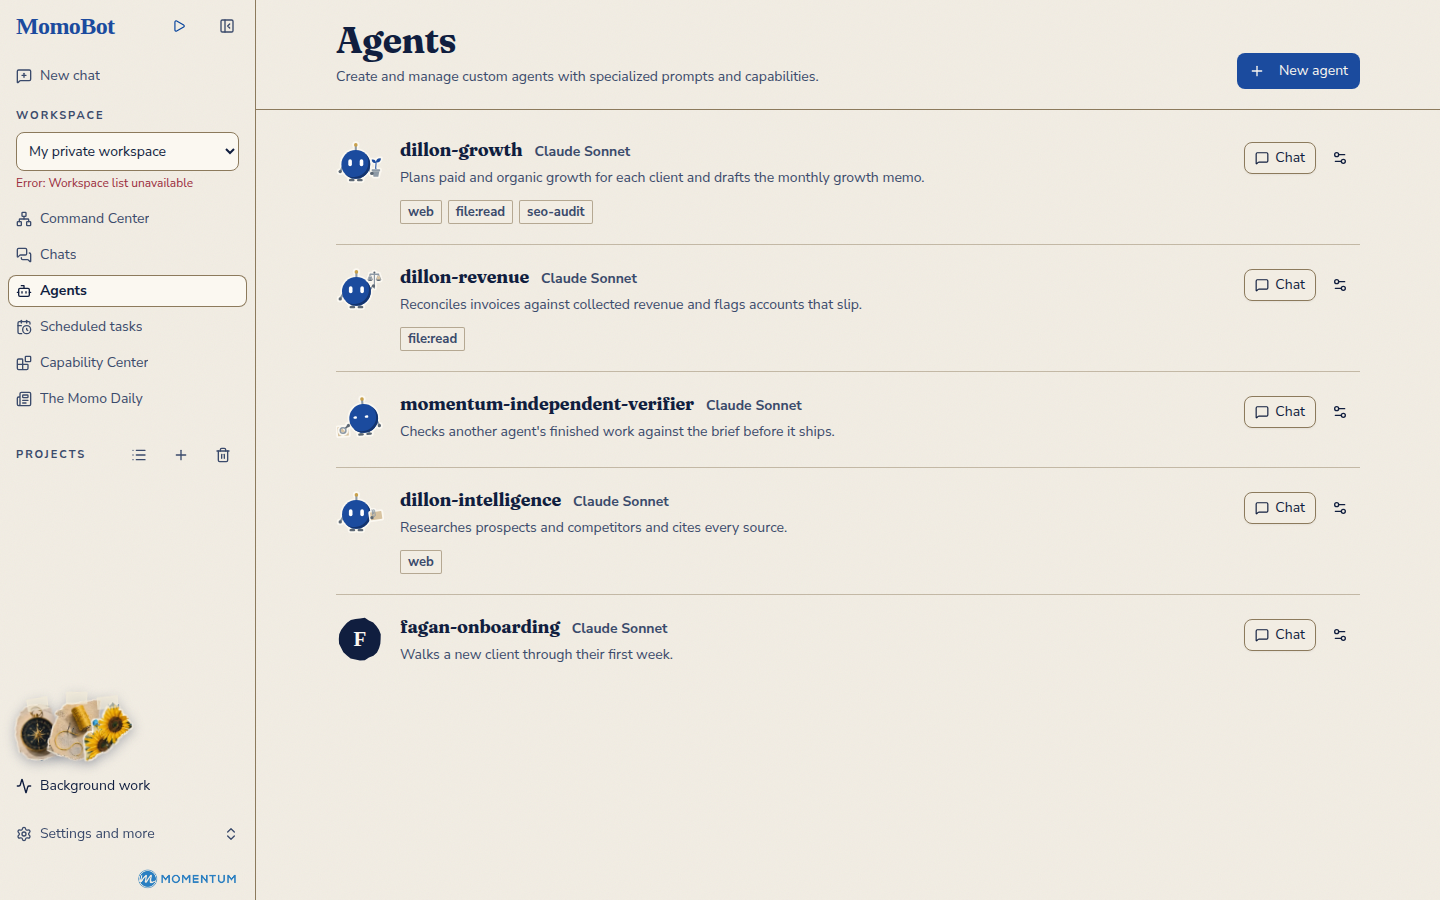
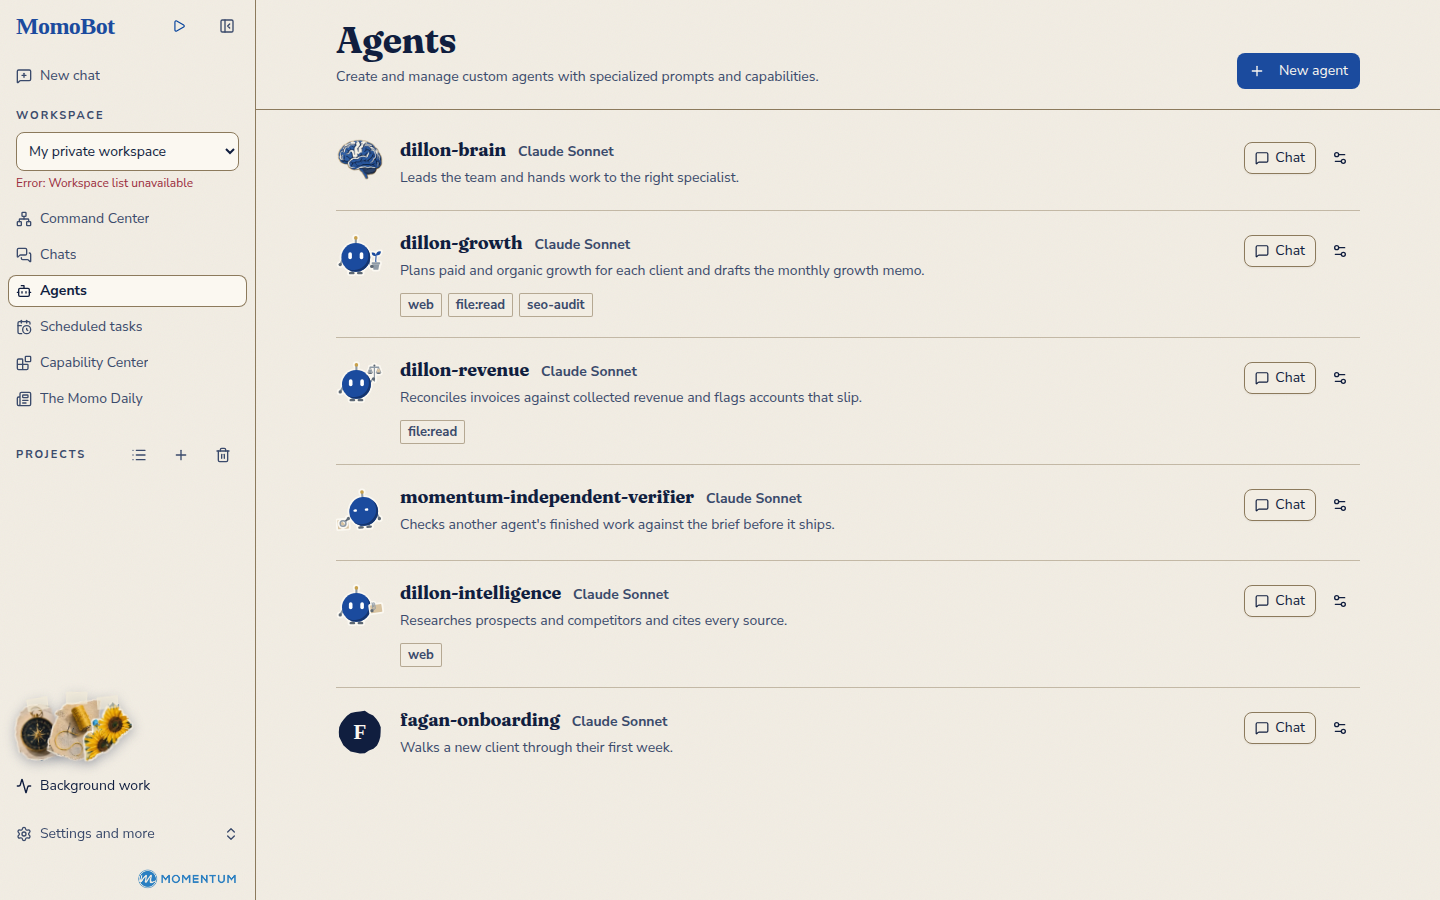
momo-week d11 slice 5: size the phone Momo in React, not CSS
The CSS override forced every img/svg in the avatar to 64x64, which
spilled Dillon Brain's layered art out of its 48x42 PaperLayers box
(motion on) and stretched its flat image square (reduced motion).
AgentCard now passes size 64 on phones via useIsMobile, so the box
grows with the art. shots.spec.ts adds dillon-brain and asserts a
64x56 box with no layer outside it, motion on and reduced.

Claude-Session: https://claude.ai/code/session_01E59Xa1Jk6hUQwFPSi9VpxZ

diff --git a/docs/pr-evidence/momo-week/d11-mobile-pop/slice5/shots.spec.ts b/docs/pr-evidence/momo-week/d11-mobile-pop/slice5/shots.spec.ts
@@ -1,4 +1,4 @@
-import { test } from "@playwright/test";
+import { expect, test } from "@playwright/test";
 
 import { mockLangGraphAPI } from "./utils/mock-api";
 
@@ -11,6 +11,7 @@ const IPHONE =
 // A realistic roster: canon specialists with Momo art, plus one custom
 // agent that has none (it keeps the ink monogram).
 const AGENTS = [
+  { name: "dillon-brain", description: "Leads the team and hands work to the right specialist.", model: "claude-sonnet", tool_groups: [], skills: [] },
   { name: "dillon-growth", description: "Plans paid and organic growth for each client and drafts the monthly growth memo.", model: "claude-sonnet", tool_groups: ["web", "file:read"], skills: ["seo-audit"] },
   { name: "dillon-revenue", description: "Reconciles invoices against collected revenue and flags accounts that slip.", model: "claude-sonnet", tool_groups: ["file:read"], skills: [] },
   { name: "momentum-independent-verifier", description: "Checks another agent's finished work against the brief before it ships.", model: "claude-sonnet", tool_groups: [], skills: [] },
@@ -46,3 +47,46 @@ for (const [w, h, mobile] of [
     });
   });
 }
+
+// Dillon Brain is a layered PaperLayers box, not a square svg: at phone size
+// the box itself is 64 by round(64 * 422/480) and no layer spills out of it.
+test.describe("brain 390", () => {
+  test.use({ viewport: { width: 390, height: 844 }, userAgent: IPHONE, isMobile: true, hasTouch: true });
+  for (const motion of ["on", "reduced"] as const) {
+    test(`brain avatar ${motion}`, async ({ page }) => {
+      if (motion === "on") {
+        // The workspace motion switch is off by default; turn it on.
+        await page.addInitScript(() => {
+          const get = Storage.prototype.getItem;
+          Storage.prototype.getItem = function (key: string) {
+            return key.startsWith("momentum:appearance:v1:") ? JSON.stringify({ treatment: "paper", motion: true }) : get.call(this, key);
+          };
+        });
+      } else {
+        await page.emulateMedia({ reducedMotion: "reduce" });
+      }
+      mockLangGraphAPI(page, { agents: AGENTS });
+      await page.goto("/workspace/agents");
+      const root = page.locator('li:has(h2:text-is("dillon-brain")) [data-paper-layers="root"]');
+      await root.waitFor();
+      await page.waitForTimeout(800);
+      const box = (await root.boundingBox())!;
+      expect(Math.round(box.width)).toBe(64);
+      expect(Math.round(box.height)).toBe(Math.round((64 * 422) / 480));
+      const imgs = page.locator('li:has(h2:text-is("dillon-brain")) [data-paper-layers="root"], li:has(h2:text-is("dillon-brain")) [data-paper-layers="root"] img');
+      const kind = await root.evaluate((el) => (el.tagName === "IMG" ? "flat" : "layers"));
+      console.log(`brain ${motion}: ${kind} ${Math.round(box.width)}x${Math.round(box.height)}`);
+      expect(kind).toBe(motion === "on" ? "layers" : "flat");
+      // 1px: the top layers' own translateZ depth scales them a hair past the
+      // box under perspective (0.3px at 64). The reported spill was 16x22px.
+      const T = 1;
+      for (const b of await imgs.evaluateAll((els) => els.map((e) => e.getBoundingClientRect().toJSON()))) {
+        expect(b.left).toBeGreaterThanOrEqual(box.x - T);
+        expect(b.top).toBeGreaterThanOrEqual(box.y - T);
+        expect(b.right).toBeLessThanOrEqual(box.x + box.width + T);
+        expect(b.bottom).toBeLessThanOrEqual(box.y + box.height + T);
+      }
+      await root.locator("xpath=ancestor::li").screenshot({ path: `${OUT}/brain-390-${motion}.png` });
+    });
+  }
+});

diff --git a/frontend/src/components/workspace/agents/agent-card.tsx b/frontend/src/components/workspace/agents/agent-card.tsx
@@ -20,6 +20,7 @@ import { pageStyles } from "@/components/workspace/page-body";
 import { useDeleteAgent } from "@/core/agents";
 import type { Agent } from "@/core/agents";
 import { useI18n } from "@/core/i18n/hooks";
+import { useIsMobile } from "@/hooks/use-mobile";
 
 import { AgentSettingsDialog } from "./agent-settings-dialog";
 
@@ -38,6 +39,7 @@ export function AgentCard({ agent }: AgentCardProps) {
     : agent.name;
   const { t } = useI18n();
   const router = useRouter();
+  const isMobile = useIsMobile();
   const deleteAgent = useDeleteAgent();
   const [deleteOpen, setDeleteOpen] = useState(false);
   const [settingsOpen, setSettingsOpen] = useState(false);
@@ -64,8 +66,10 @@ export function AgentCard({ agent }: AgentCardProps) {
     <li className="relative flex flex-wrap items-start gap-x-4 gap-y-3 py-5">
       {/* Same identity as the Command Center roster; the name is the row
           heading, so the mark is decorative here. */}
-      <span aria-hidden="true" className="shrink-0" data-agent-momo>
-        <MomoAvatar agent={agent} size={48} />
+      <span aria-hidden="true" className="shrink-0">
+        {/* Phones draw the Momo at the 64px sticker size. Sized here, not
+            in CSS, so Dillon Brain's layered box grows with its art. */}
+        <MomoAvatar agent={agent} size={isMobile ? 64 : 48} />
       </span>
       <div className="min-w-0 flex-1 basis-64 max-sm:basis-0">
         <div className="flex flex-wrap items-baseline gap-x-3 gap-y-0.5">

diff --git a/frontend/src/components/workspace/agents/agent-gallery.module.css b/frontend/src/components/workspace/agents/agent-gallery.module.css
@@ -1,7 +1,8 @@
 /*
  * Phones: each agent is its own paper slip on the desk, the way Desk results
- * and dispatch slips are, with its Momo at sticker size and Chat across the
- * slip's foot at thumb reach. Wider screens keep the hairline roster.
+ * and dispatch slips are, with Chat across the slip's foot at thumb reach.
+ * The 64px Momo is sized in agent-card.tsx. Wider screens keep the hairline
+ * roster.
  */
 @media (max-width: 39.99rem) {
   .roster {
@@ -22,13 +23,5 @@
 
   .roster.roster > li:nth-child(even) {
     border-radius: 5px 2px 6px 3px;
-  }
-
-  /* The Momo at the Command Center's phone sticker size. The art is a
-     scalable svg, so only the box changes. */
-  .roster [data-agent-momo] img,
-  .roster [data-agent-momo] svg {
-    width: 64px;
-    height: 64px;
   }
 }
